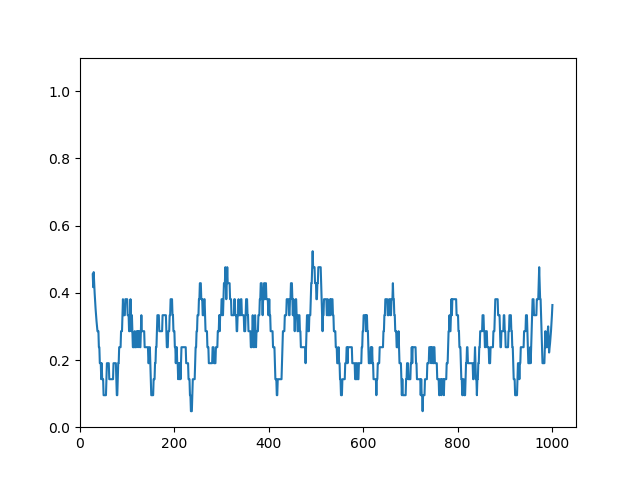
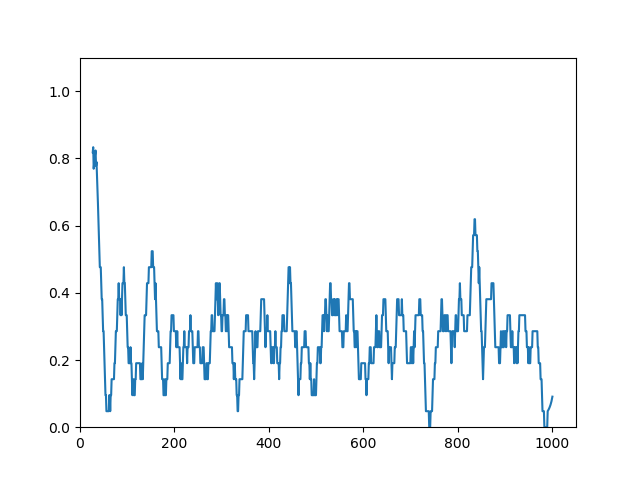
Fix the second choice script to be more in line with a "beam search"

Changed region(s): [[0.125, 0.4688, 0.875, 0.9062], [0.125, 0.3125, 0.1562, 0.5]]

diff --git a/src/app/new_rnn/predict_helper.py b/src/app/new_rnn/predict_helper.py
@@ -101,11 +101,9 @@ def regenerate_sequence(implementation, min_seed_length, model, full_sequence):
             length += 1
     return current_sequence, basewise_probabilities
 
-def regenerate_sequence_second_choice(implementation, min_seed_length, model, full_sequence):
+def regenerate_sequence_second_choice(implementation, min_seed_length, model, sampler_model, full_sequence):
     reverse_encoding = CONSTANTS.REVERSE_INTEGER_ENCODING
     label_encoder = KmerLabelEncoder()
-    prediction_length = 1
-    one_hot_decoder = OneHotVectorDecoder(prediction_length, encoding_constants=CONSTANTS)
 
     sequence_length = len(full_sequence)
     start_string = full_sequence[0:min_seed_length]
@@ -127,16 +125,35 @@ def regenerate_sequence_second_choice(implementation, min_seed_length, model, fu
             base_encoding = label_encoder.encode_kmers([base], [], with_shifted_output=False)[0]
 
             prediction = model.predict(base_encoding)[0]
-            decoded_prediction = reverse_encoding[_second_largest_idx(prediction)]
-            current_sequence += decoded_prediction
+            best_prediction = reverse_encoding[_nth_largest_idx(prediction, 1)]
+            second_best_prediction = reverse_encoding[_nth_largest_idx(prediction, 2)]
+            chosen_prediction = _branch_and_choose(best_prediction, second_best_prediction, current_sequence, sampler_model)
+            current_sequence += chosen_prediction
             basewise_probabilities[length - min_seed_length] = prediction
 
             remaining_length -= 1
             length += 1
     return current_sequence, basewise_probabilities
 
-def _second_largest_idx(array):
+def _nth_largest_idx(array, n):
     copy = np.copy(array)
-    largest_idx = np.argmax(copy)
-    copy[largest_idx] = 0
+    for i in range(n-1):
+        largest_idx = np.argmax(copy)
+        copy[largest_idx] = 0
     return np.argmax(copy)
+
+def _branch_and_choose(best_prediction, second_best_prediction, current_sequence, model):
+    label_encoder = KmerLabelEncoder()
+    best_seed = str(current_sequence) + best_prediction
+    second_best_seed = str(current_sequence) + second_best_prediction
+
+    encoded_best_seed = label_encoder.encode_kmers([best_seed], [], with_shifted_output=False)[0]
+    encoded_second_best_seed = label_encoder.encode_kmers([second_best_seed], [], with_shifted_output=False)[0]
+
+    best_seed_prediction = model.predict(encoded_best_seed)[0]
+    second_best_seed_prediction = model.predict(encoded_second_best_seed)[0]
+
+    if np.max(best_seed_prediction) > np.max(second_best_seed_prediction):
+        return best_prediction
+    else:
+        return second_best_prediction

diff --git a/src/app/new_rnn/app_keras_predict_fasta_second_choice.py b/src/app/new_rnn/app_keras_predict_fasta_second_choice.py
@@ -29,10 +29,13 @@ def main():
     if implementation == IMP_CONSTANTS.SINGLE_BASE_PREDICTION:
         model = SingleLSTMModel(min_seed_length=min_seed_length, stateful=True, batch_size=1, embedding_dim=embedding_dim, latent_dim=latent_dim,
                                 with_gpu=True)
+    sampler_model = SingleLSTMModel(min_seed_length=min_seed_length, embedding_dim=embedding_dim, latent_dim=latent_dim,
+                                        with_gpu=True)
 
     model.load_weights('../weights/my_model_weights.h5')
+    sampler_model.load_weights('../weights/my_model_weights.h5')
 
-    predicted_string_with_seed, basewise_probabilities = helper.regenerate_sequence_second_choice(implementation, min_seed_length, model, sequence)
+    predicted_string_with_seed, basewise_probabilities = helper.regenerate_sequence_second_choice(implementation, min_seed_length, model, sampler_model, sequence)
 
     predicted_sequence = predicted_string_with_seed[min_seed_length:sequence_length]
     actual_sequence = sequence[min_seed_length:sequence_length]
